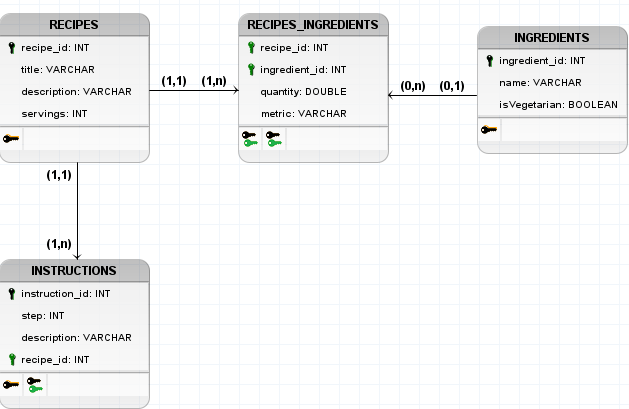
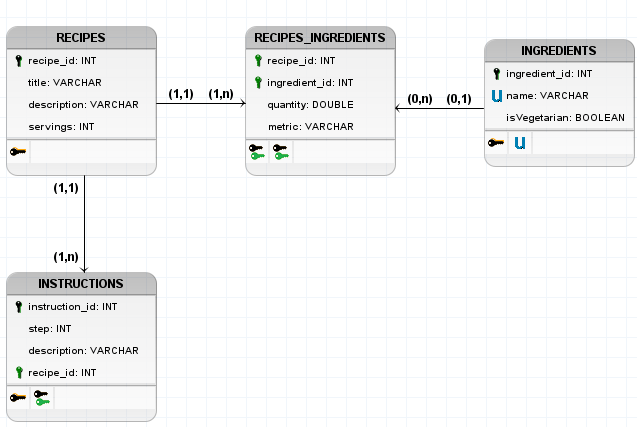
Feat: adds unique key constraint to Ingredient name and updates readme

Changed region(s): [[0.0, 0.0293, 1.0, 1.0], [0.9666, 0.3521, 0.9968, 0.3814]]

diff --git a/recipeapi/src/test/java/com/recime/recipeapi/service/IngredientServiceTest.java b/recipeapi/src/test/java/com/recime/recipeapi/service/IngredientServiceTest.java
@@ -13,6 +13,7 @@ import org.springframework.beans.factory.annotation.Autowired;
 import org.springframework.boot.test.context.SpringBootTest;
 import org.springframework.test.annotation.Rollback;
 import org.springframework.test.context.ActiveProfiles;
+import org.springframework.test.annotation.DirtiesContext;
 
 import com.recime.recipeapi.dto.RecipeIngredient.RecipeIngredientWithMeasuresDto;
 import com.recime.recipeapi.dto.ingredient.IngredientDto;
@@ -24,6 +25,7 @@ import jakarta.transaction.Transactional;
 
 @SpringBootTest
 @ActiveProfiles("test")
+@DirtiesContext(classMode = DirtiesContext.ClassMode.AFTER_EACH_TEST_METHOD)
 public class IngredientServiceTest {
 
     @Autowired
@@ -41,14 +43,14 @@ public class IngredientServiceTest {
         recipeIngredientRepository.deleteAll();
         ingredientRepository.deleteAll();
         ingredientRepository.saveAll(List.of(
-                new Ingredient(null, "Test Ingredient", true),
-                new Ingredient(null, "Test Ingredient 2", false)));
+                new Ingredient(null, "Test Ingredient Service 1", true),
+                new Ingredient(null, "Test Ingredient Service 2", false)));
         ingredientRepository.flush();
     }
 
     @Test
     public void save_ShouldSaveIngredient_WhenIngredientIsProvided() {
-        Ingredient ingredient = new Ingredient(null, "Test Ingredient 3", true);
+        Ingredient ingredient = new Ingredient(null, "Test Ingredient Service 3", true);
         Optional<Ingredient> savedIngredient = ingredientService.save(ingredient);
         assertNotNull(savedIngredient.get().getIngredientId());
         assertEquals(ingredient.getName(), savedIngredient.get().getName());
@@ -65,7 +67,7 @@ public class IngredientServiceTest {
 
     @Test
     public void saveDto_ShouldSaveIngredient_WhenIngredientDtoIsProvided() {
-        IngredientDto ingredientDto = new IngredientDto("Test Ingredient 3", true);
+        IngredientDto ingredientDto = new IngredientDto("Test Ingredient Service 4", true);
         Optional<Ingredient> savedIngredient = ingredientService.saveDto(ingredientDto);
         assertNotNull(savedIngredient.get().getIngredientId());
         assertEquals(ingredientDto.getName(), savedIngredient.get().getName());
@@ -87,14 +89,14 @@ public class IngredientServiceTest {
 
     @Test
     public void update_ShouldReturnEmptyOptional_WhenIngredientDoesNotExist() {
-        IngredientDto ingredientDto = new IngredientDto("Test Ingredient 3", true);
+        IngredientDto ingredientDto = new IngredientDto("Test Ingredient 5", true);
         Optional<Ingredient> updatedIngredient = ingredientService.update(999L, ingredientDto);
         assertEquals(Optional.empty(), updatedIngredient);
     }
 
     @Test
     public void findOrSaveDto_ShouldFindIngredient_WhenIngredientExists() {
-        RecipeIngredientWithMeasuresDto ingredientDto = new RecipeIngredientWithMeasuresDto("Test Ingredient", true,
+        RecipeIngredientWithMeasuresDto ingredientDto = new RecipeIngredientWithMeasuresDto("Test Ingredient 6", true,
                 "g", 100.0);
         Optional<Ingredient> ingredientDb = ingredientService.findOrSaveDto(ingredientDto);
         assertNotNull(ingredientDb.get().getIngredientId());
@@ -103,7 +105,7 @@ public class IngredientServiceTest {
 
     @Test
     public void findOrSaveDto_ShouldSaveIngredient_WhenIngredientDoesNotExist() {
-        RecipeIngredientWithMeasuresDto ingredientDto = new RecipeIngredientWithMeasuresDto("Test Ingredient 3", true,
+        RecipeIngredientWithMeasuresDto ingredientDto = new RecipeIngredientWithMeasuresDto("Test Ingredient 7", true,
                 "g", 100.0);
         Optional<Ingredient> savedIngredient = ingredientService.findOrSaveDto(ingredientDto);
         assertNotNull(savedIngredient.get().getIngredientId());

diff --git a/recipeapi/src/test/java/com/recime/recipeapi/service/RecipeIngredientServiceTest.java b/recipeapi/src/test/java/com/recime/recipeapi/service/RecipeIngredientServiceTest.java
@@ -3,7 +3,6 @@ package com.recime.recipeapi.service;
 import static org.junit.jupiter.api.Assertions.assertEquals;
 import static org.junit.jupiter.api.Assertions.assertNotNull;
 
-import java.util.List;
 import java.util.Optional;
 
 import org.junit.jupiter.api.BeforeEach;
@@ -12,6 +11,7 @@ import org.springframework.beans.factory.annotation.Autowired;
 import org.springframework.boot.test.context.SpringBootTest;
 import org.springframework.test.annotation.Rollback;
 import org.springframework.test.context.ActiveProfiles;
+import org.springframework.test.annotation.DirtiesContext;
 
 import com.recime.recipeapi.dto.RecipeIngredient.RecipeIngredientDto;
 import com.recime.recipeapi.dto.RecipeIngredient.RecipeIngredientWithMeasuresDto;
@@ -27,6 +27,7 @@ import jakarta.transaction.Transactional;
 
 @SpringBootTest
 @ActiveProfiles("test")
+@DirtiesContext(classMode = DirtiesContext.ClassMode.AFTER_EACH_TEST_METHOD)
 public class RecipeIngredientServiceTest {
 
     @Autowired
@@ -48,7 +49,7 @@ public class RecipeIngredientServiceTest {
         recipeRepository.deleteAll();
         ingredientRepository.deleteAll();
 
-        ingredientRepository.save(new Ingredient(null, "Ingredient 1", true));
+        ingredientRepository.save(new Ingredient(null, "Recipe Ingredient Service Test 1", true));
         recipeRepository.save(new Recipe(null, "Recipe 1", "Description 1", 1));
 
         recipeIngredientRepository.flush();
@@ -109,7 +110,7 @@ public class RecipeIngredientServiceTest {
     @Test
     public void saveIngredientsAndRecipesMeasurements_ShouldSaveRecipeIngredient_WhenRecipeIngredientDtoIsProvided() {
         RecipeIngredientWithMeasuresDto recipeIngredientWithMeasuresDto = new RecipeIngredientWithMeasuresDto(
-                "Ingredient 1", true, "g", 100.0);
+                "Recipe Ingredient Service Test 2", true, "g", 100.0);
         Recipe savedRecipe = recipeRepository.findAll().get(0);
         Optional<RecipeIngredient> savedRecipeIngredient = recipeIngredientService
                 .saveIngredientsAndRecipesMeasurements(recipeIngredientWithMeasuresDto, savedRecipe);
@@ -121,7 +122,7 @@ public class RecipeIngredientServiceTest {
     @Test
     public void saveIngredientsAndRecipesMeasurements_ShouldThrowException_WhenExceptionOccurs() {
         RecipeIngredientWithMeasuresDto recipeIngredientWithMeasuresDto = new RecipeIngredientWithMeasuresDto(
-                "Ingredient 1", true, "g", 100.0);
+                "Recipe Ingredient Service Test 3", true, "g", 100.0);
         Recipe savedRecipe = recipeRepository.findAll().get(0);
         try {
             recipeIngredientService.saveIngredientsAndRecipesMeasurements(recipeIngredientWithMeasuresDto, savedRecipe);

diff --git a/recipeapi/src/main/java/com/recime/recipeapi/model/Ingredient.java b/recipeapi/src/main/java/com/recime/recipeapi/model/Ingredient.java
@@ -13,10 +13,10 @@ public class Ingredient {
     @GeneratedValue(strategy = GenerationType.IDENTITY)
     private Long ingredientId;
 
-    @Column(name = "name", nullable = false)
+    @Column(name = "name", nullable = false, unique = true)
     private String name;
 
     @Column(name = "isVegetarian", nullable = false)
     private Boolean isVegetarian;
-    
+
 }

diff --git a/README.md b/README.md
@@ -108,6 +108,8 @@ Other controllers (such as `IngredientController`, `InstructionController`, `Rec
 
 - **Ingredients and Instructions as separate entities:**: To ensure better scalability, data organization, and query efficiency, both Ingredients and Instructions were modeled as independent entities, each with a dedicated relationship to the main `Recipe` entity.
 - **isVegetarian as a INGREDIENT atribute:** To support the "vegetarian" filter required in the challenge, recipes need to be flagged accordingly. Instead of marking recipes directly, the isVegetarian flag was added to the Ingredient entity. A recipe is considered vegetarian only if all its ingredients are marked as vegetarian. This approach ensures consistency and better scalability.
+- **Non-unique recipe titles**: The title field of the Recipe entity is not enforced as unique. This decision was based on how the ReciMe app works in practice — recipes are often imported from video/audio content on social media, where many users may submit similarly named recipes with different ingredients or preparation styles. Enforcing unique titles would limit usability and introduce unnecessary friction.
+- **Unique constraint on Ingredient `name`:** To encourage data reuse and avoid unnecessary duplication in the database, the `name` atribute of the `Ingredient` entity is marked as unique.
 
 ### Database Seeding
 
@@ -142,9 +144,44 @@ Given that this is a Spring Boot project, I followed the framework’s standard 
 Source: https://spring.io
 </p>
 
-#### Assumptions and Decisions
+#### Package Diagram
 
-- **Layered architecture:**
+To better illustrate the modular structure of the project, the following Package Diagram shows the main packages and their responsibilities:
+
+<p align="center">
+  <img src="./assets/packageDiagram.png" alt="Spring Architecture Diagram" width="450"/>
+</p>
+
+**Package Responsibilities:**
+
+- `controller` – Handles HTTP requests and maps them to service layer calls. Follows REST principles.
+
+- `service` – Contains the business logic of the application, acting as a bridge between controllers and repositories.
+
+- `repository` – Interfaces that interact with the database using Spring Data JPA.
+
+- `model` – Domain entities that map to database tables (annotated with JPA/Hibernate).
+
+- `dto` – Data Transfer Objects used to expose or receive data via API endpoints.
+
+- `mapper` – Classes responsible for converting between entities and DTOs.
+
+- `specification` – Contains dynamic query logic using Specification and CriteriaBuilder.
+
+- `config` – Contains general project configurations (database seeding)
+
+## Unit Tests
+
+The project includes unit tests for the most relevant methods within the `Service` layer, the part of the application responsible for the core business logic.
+
+#### Running the tests
+
+To run all unit tests, use the following command from the project root:
+
+```bash
+cd recipeapi
+./mvnw test
+```
 
 ## AI Usage
 
@@ -161,6 +198,7 @@ As there was no restriction regarding the use of AI tools, I leveraged them as p
 
 - Assisted in writing and structuring configuration files, including `application.yml` and `application-test.yml`.
 - Guided the construction of dynamic queries using Spring Data JPA Specifications and `CriteriaBuilder`, including multi-join queries with conditional filters. (`RecipeSpecification`).
+- Helped determine when to use `@DirtiesContext` to isolate tests and avoid side effects in database-related operations (Unique Key Constraint Errors).
 
 ##### Cursor
 
